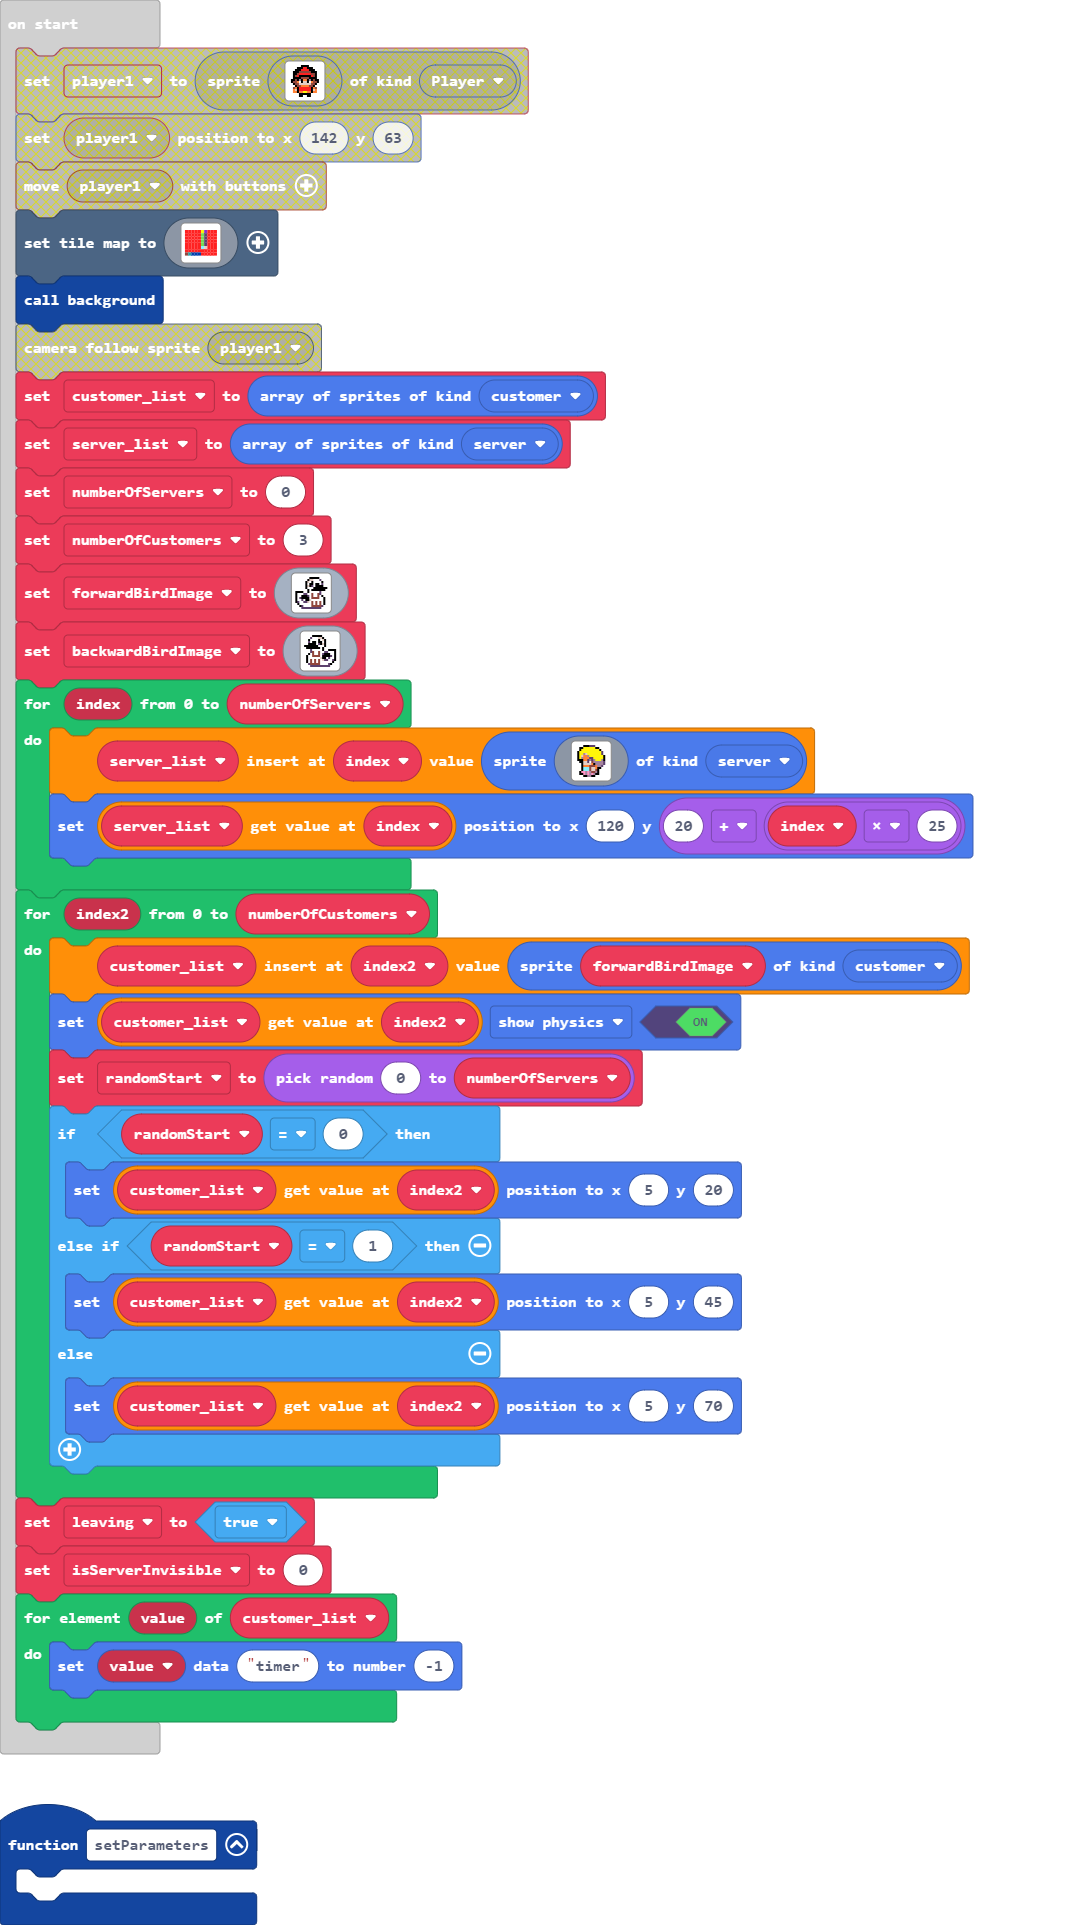
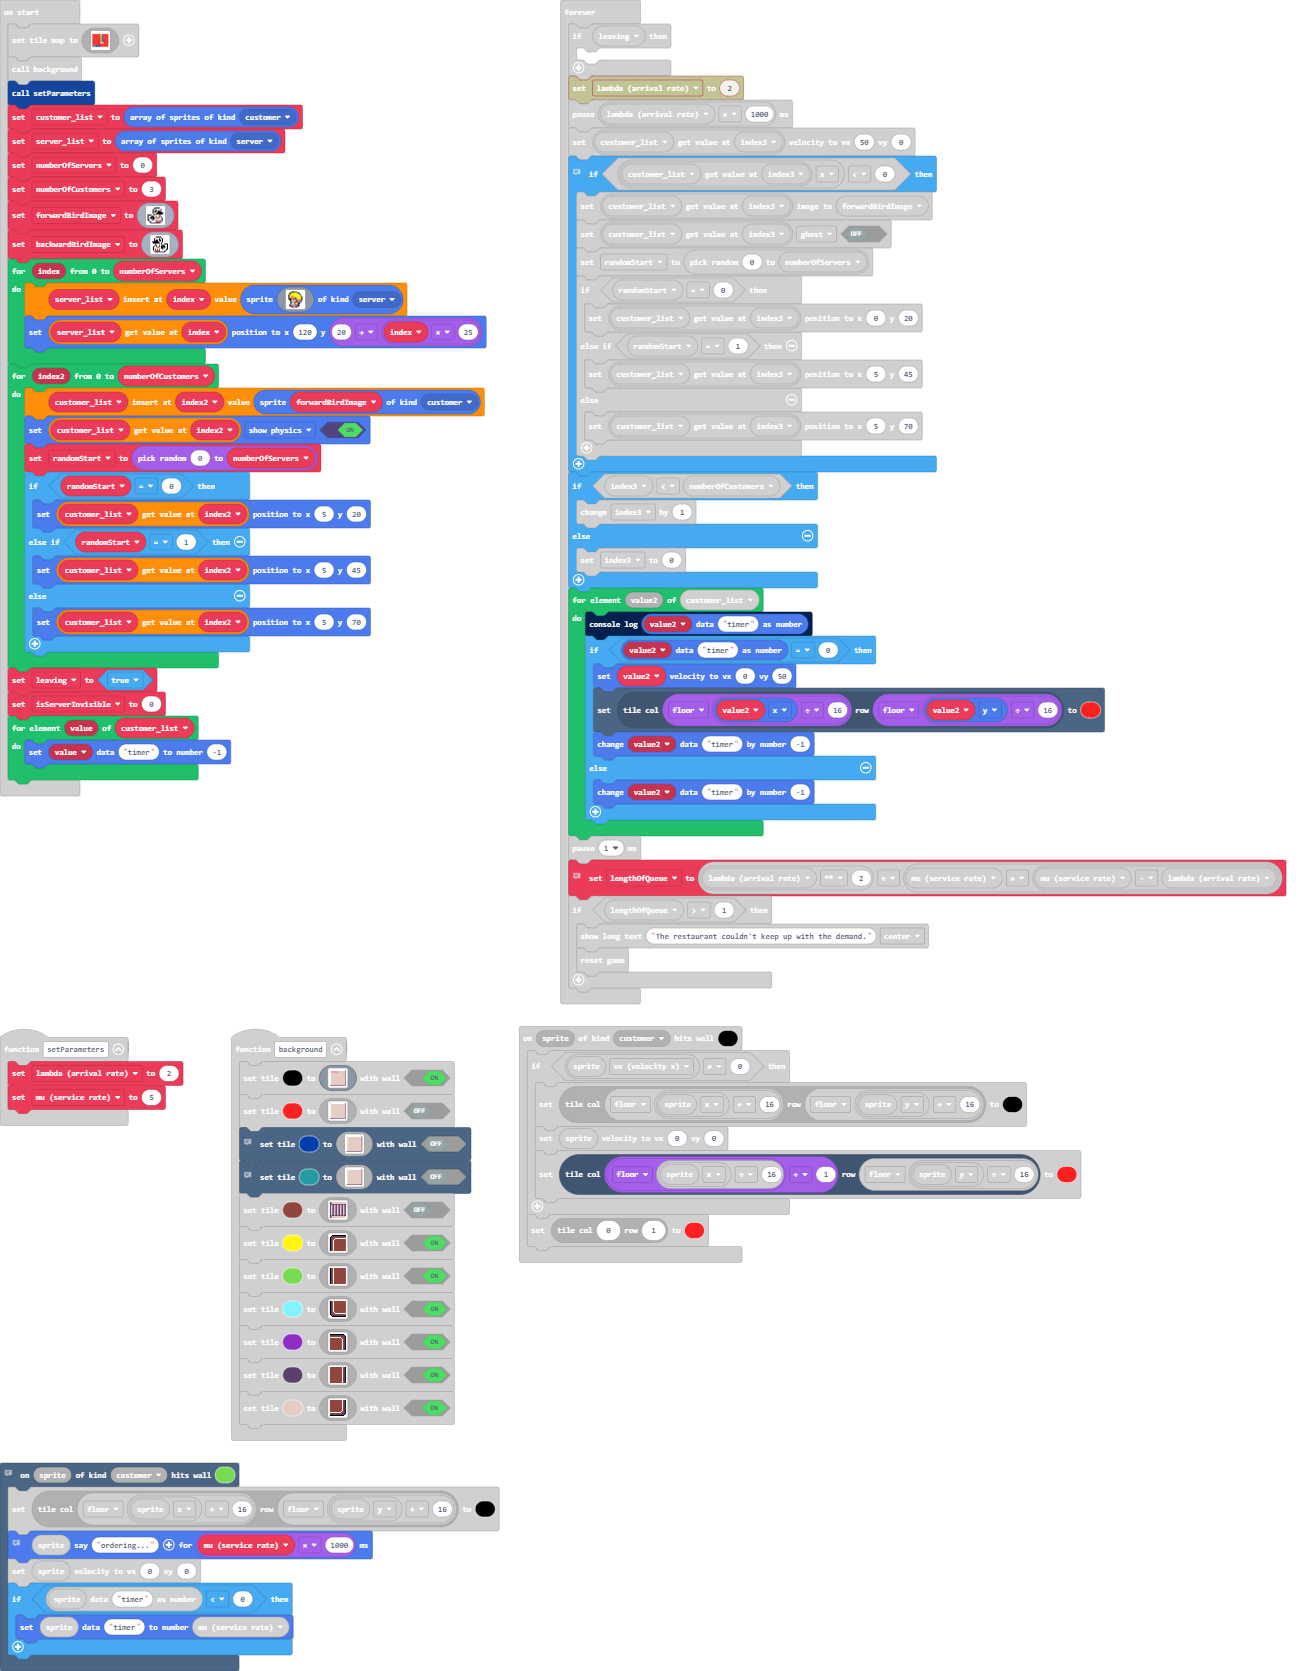
Update main.blocks, main.ts

diff --git a/main.ts b/main.ts
@@ -6,7 +6,8 @@ namespace SpriteKind {
     export const server = SpriteKind.create()
 }
 function setParameters () {
-	
+    lambda_arrival_rate = 2
+    mu_service_rate = 5
 }
 // number of servers
 scene.onOverlapTile(SpriteKind.Player, sprites.dungeon.buttonTeal, function (sprite, location) {
@@ -46,8 +47,8 @@ scene.onOverlapTile(SpriteKind.Player, sprites.dungeon.buttonTeal, function (spr
 function background () {
     scene.setTile(15, img`
         d 1 1 1 1 1 1 1 1 1 1 1 1 1 1 b 
-        1 d d d d d d d d d d d d d d b 
-        1 d d d d d d d d d d d d d d b 
+        1 3 3 3 3 3 3 3 d d d d d d d b 
+        1 3 3 3 3 3 3 3 d d d d d d d b 
         1 d d d d d d d d d d d d d d b 
         1 d d d d d d d d d d d d d d b 
         1 d d d d d d d d d d d d d d b 
@@ -249,7 +250,7 @@ scene.onHitTile(SpriteKind.customer, 15, function (sprite) {
     if (sprite.vx != 0) {
         scene.setTileAt(scene.getTile(Math.floor(sprite.x / 16), Math.floor(sprite.y / 16)), 15)
         sprite.setVelocity(0, 0)
-        scene.setTileAt(scene.getTile(Math.floor(sprite.x / 16 + 1), Math.floor(sprite.y / 16)), 2)
+        scene.setTileAt(scene.getTile(Math.floor(sprite.x / 16) + 1, Math.floor(sprite.y / 16)), 2)
     }
     scene.setTileAt(scene.getTile(0, 1), 2)
 })
@@ -267,10 +268,9 @@ scene.onOverlapTile(SpriteKind.customer, sprites.dungeon.stairEast, function (sp
 scene.onHitTile(SpriteKind.customer, 7, function (sprite) {
     scene.setTileAt(scene.getTile(Math.floor(sprite.x / 16), Math.floor(sprite.y / 16)), 15)
     // need to pause for a few seconds
-    sprite.say("ordering...", 1000)
+    sprite.say("ordering...", mu_service_rate * 1000)
     sprite.setVelocity(0, 0)
-    if (sprites.readDataNumber(sprite, "timer") <= 0) {
-        mu_service_rate = 5
+    if (sprites.readDataNumber(sprite, "timer") < 0) {
         sprites.setDataNumber(sprite, "timer", mu_service_rate)
     }
 })
@@ -280,8 +280,8 @@ scene.onOverlapTile(SpriteKind.customer, myTiles.tile1, function (sprite, locati
 })
 let lengthOfQueue = 0
 let index3 = 0
-let lambda_arrival_rate = 0
 let mu_service_rate = 0
+let lambda_arrival_rate = 0
 let isServerInvisible = 0
 let leaving = false
 let randomStart = 0
@@ -299,6 +299,7 @@ scene.setTileMap(img`
     e 6 8 8 8 2 2 2 2 2 
     `)
 background()
+setParameters()
 let customer_list = sprites.allOfKind(SpriteKind.customer)
 server_list = sprites.allOfKind(SpriteKind.server)
 numberOfServers = 0
@@ -379,7 +380,6 @@ for (let value of customer_list) {
 }
 forever(function () {
     if (leaving) {
-        lambda_arrival_rate = 2
         pause(lambda_arrival_rate * 1000)
         customer_list[index3].setVelocity(50, 0)
         // respawns customer after they leave
@@ -402,6 +402,7 @@ forever(function () {
         }
     }
     for (let value2 of customer_list) {
+        console.log(sprites.readDataNumber(value2, "timer"))
         if (sprites.readDataNumber(value2, "timer") == 0) {
             value2.setVelocity(0, 50)
             scene.setTileAt(scene.getTile(Math.floor(value2.x / 16), Math.floor(value2.y / 16)), 2)
